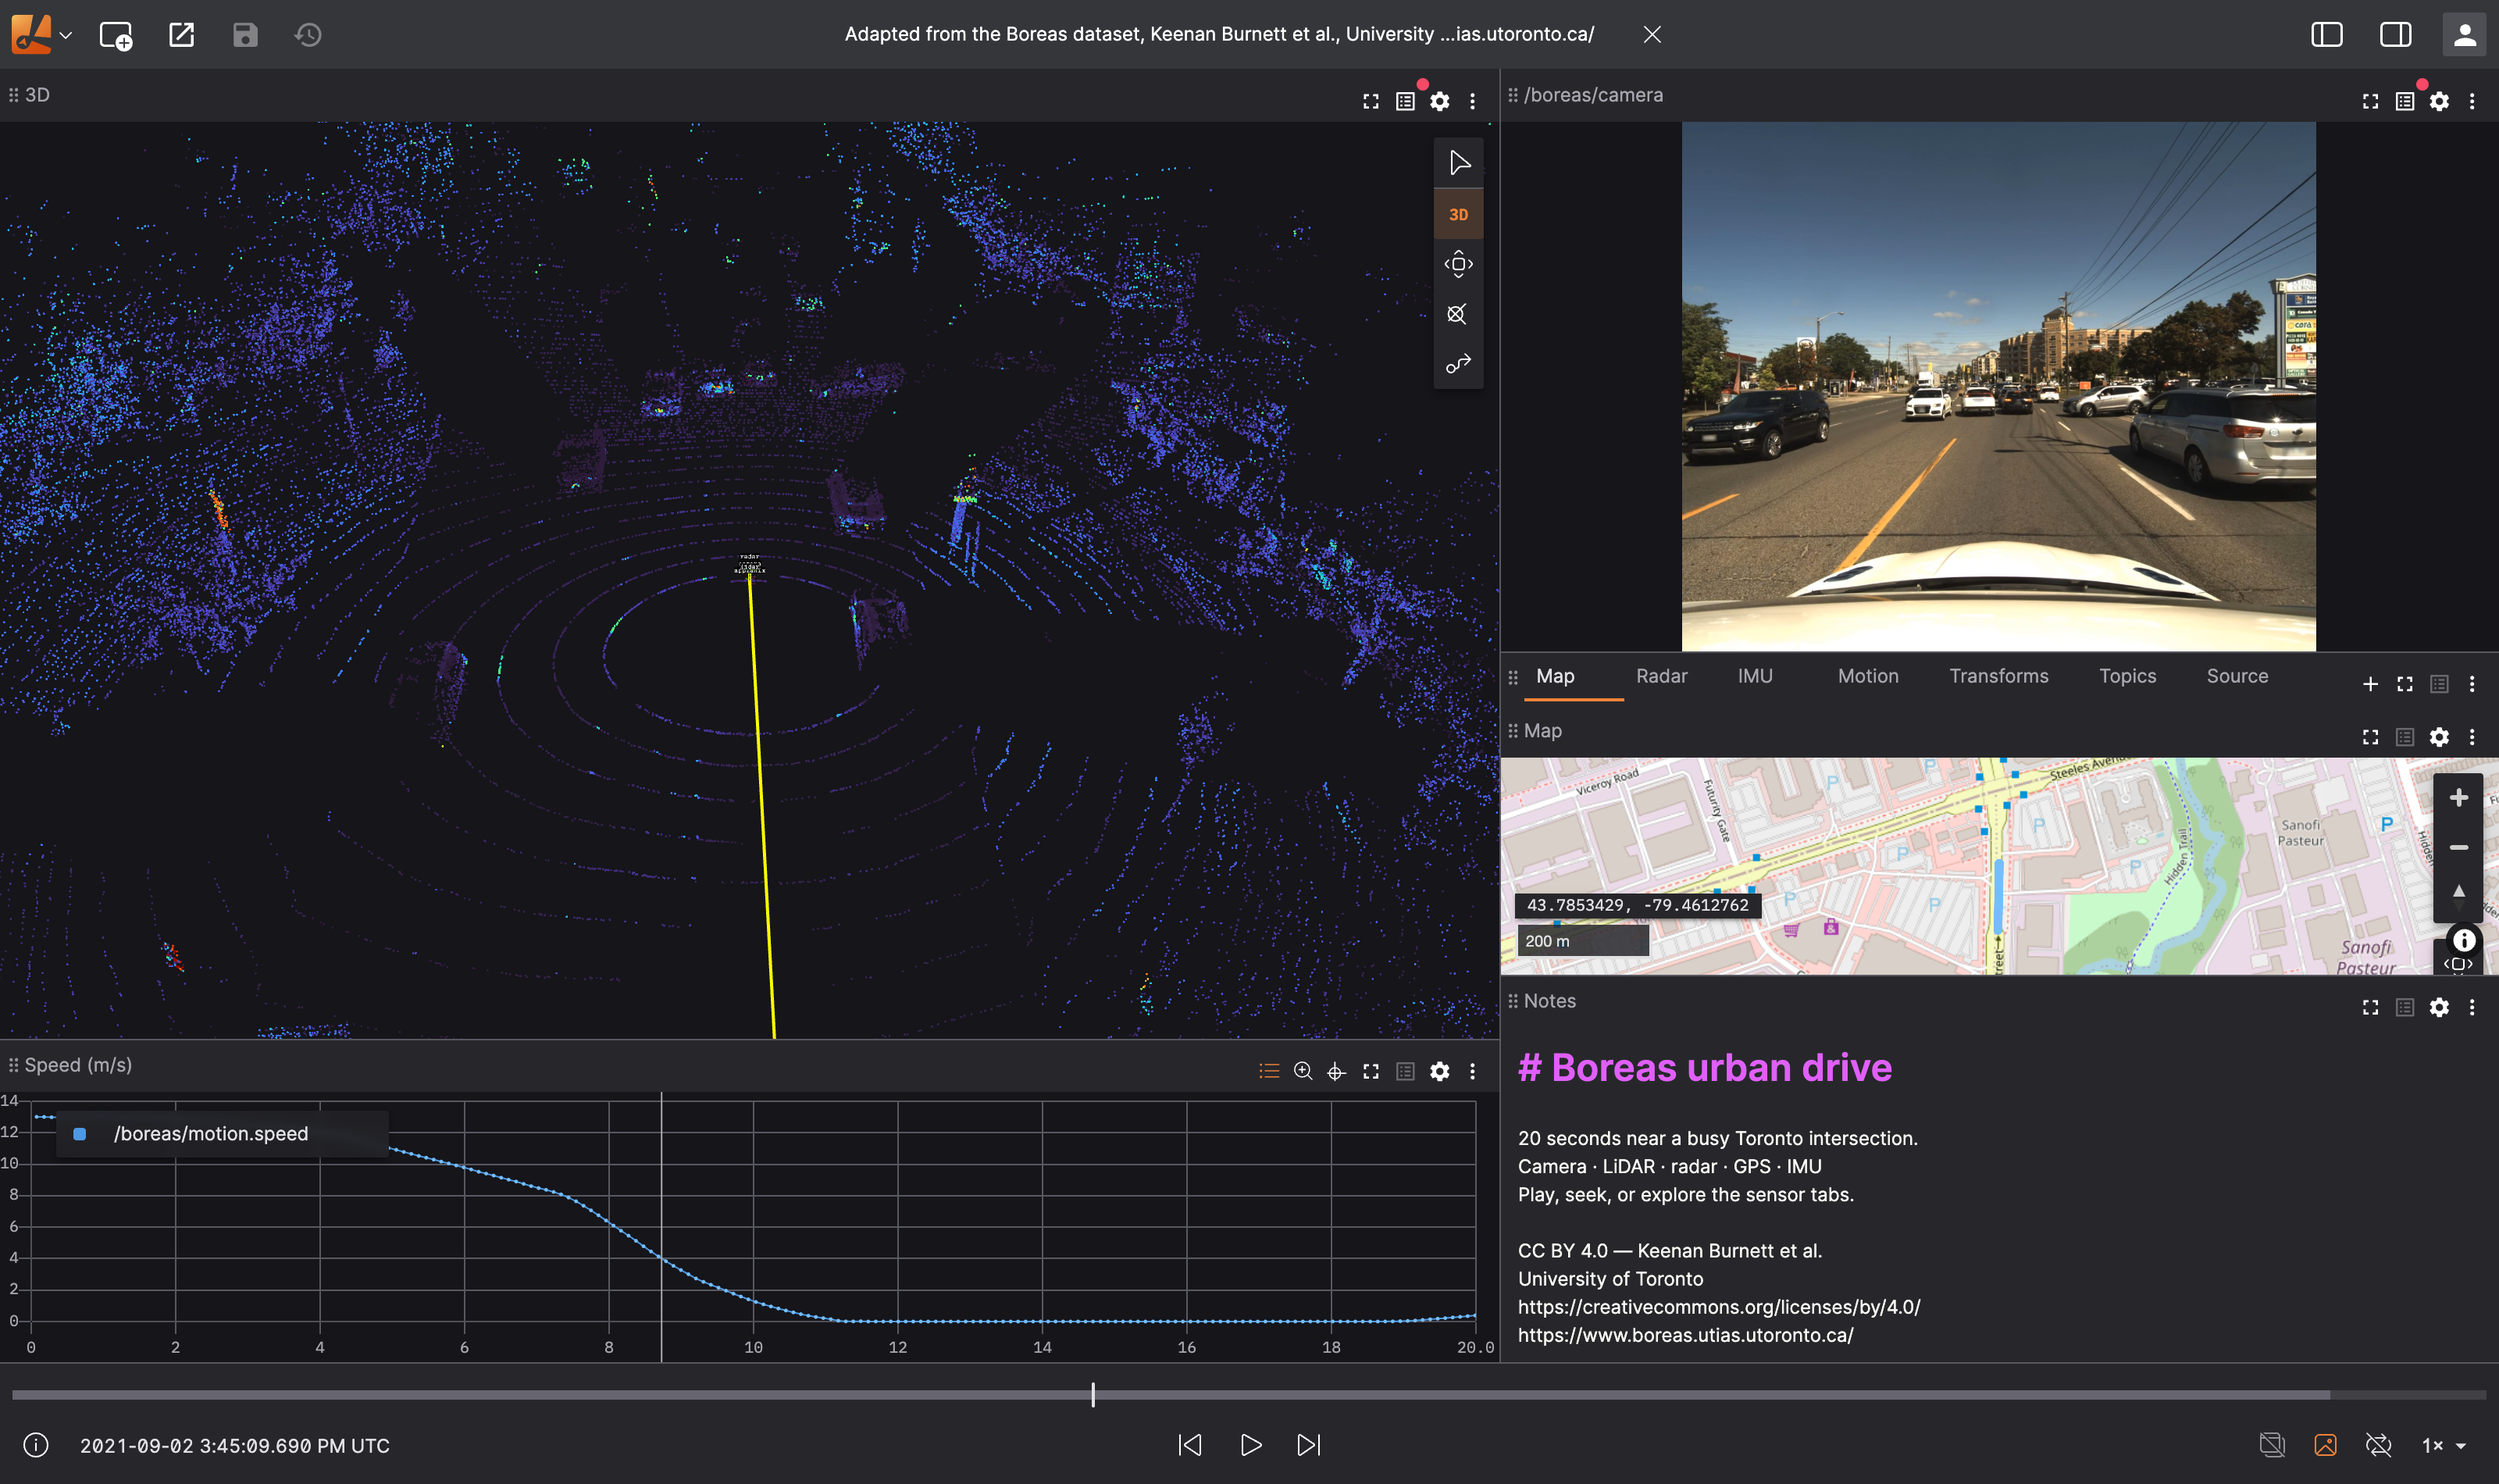
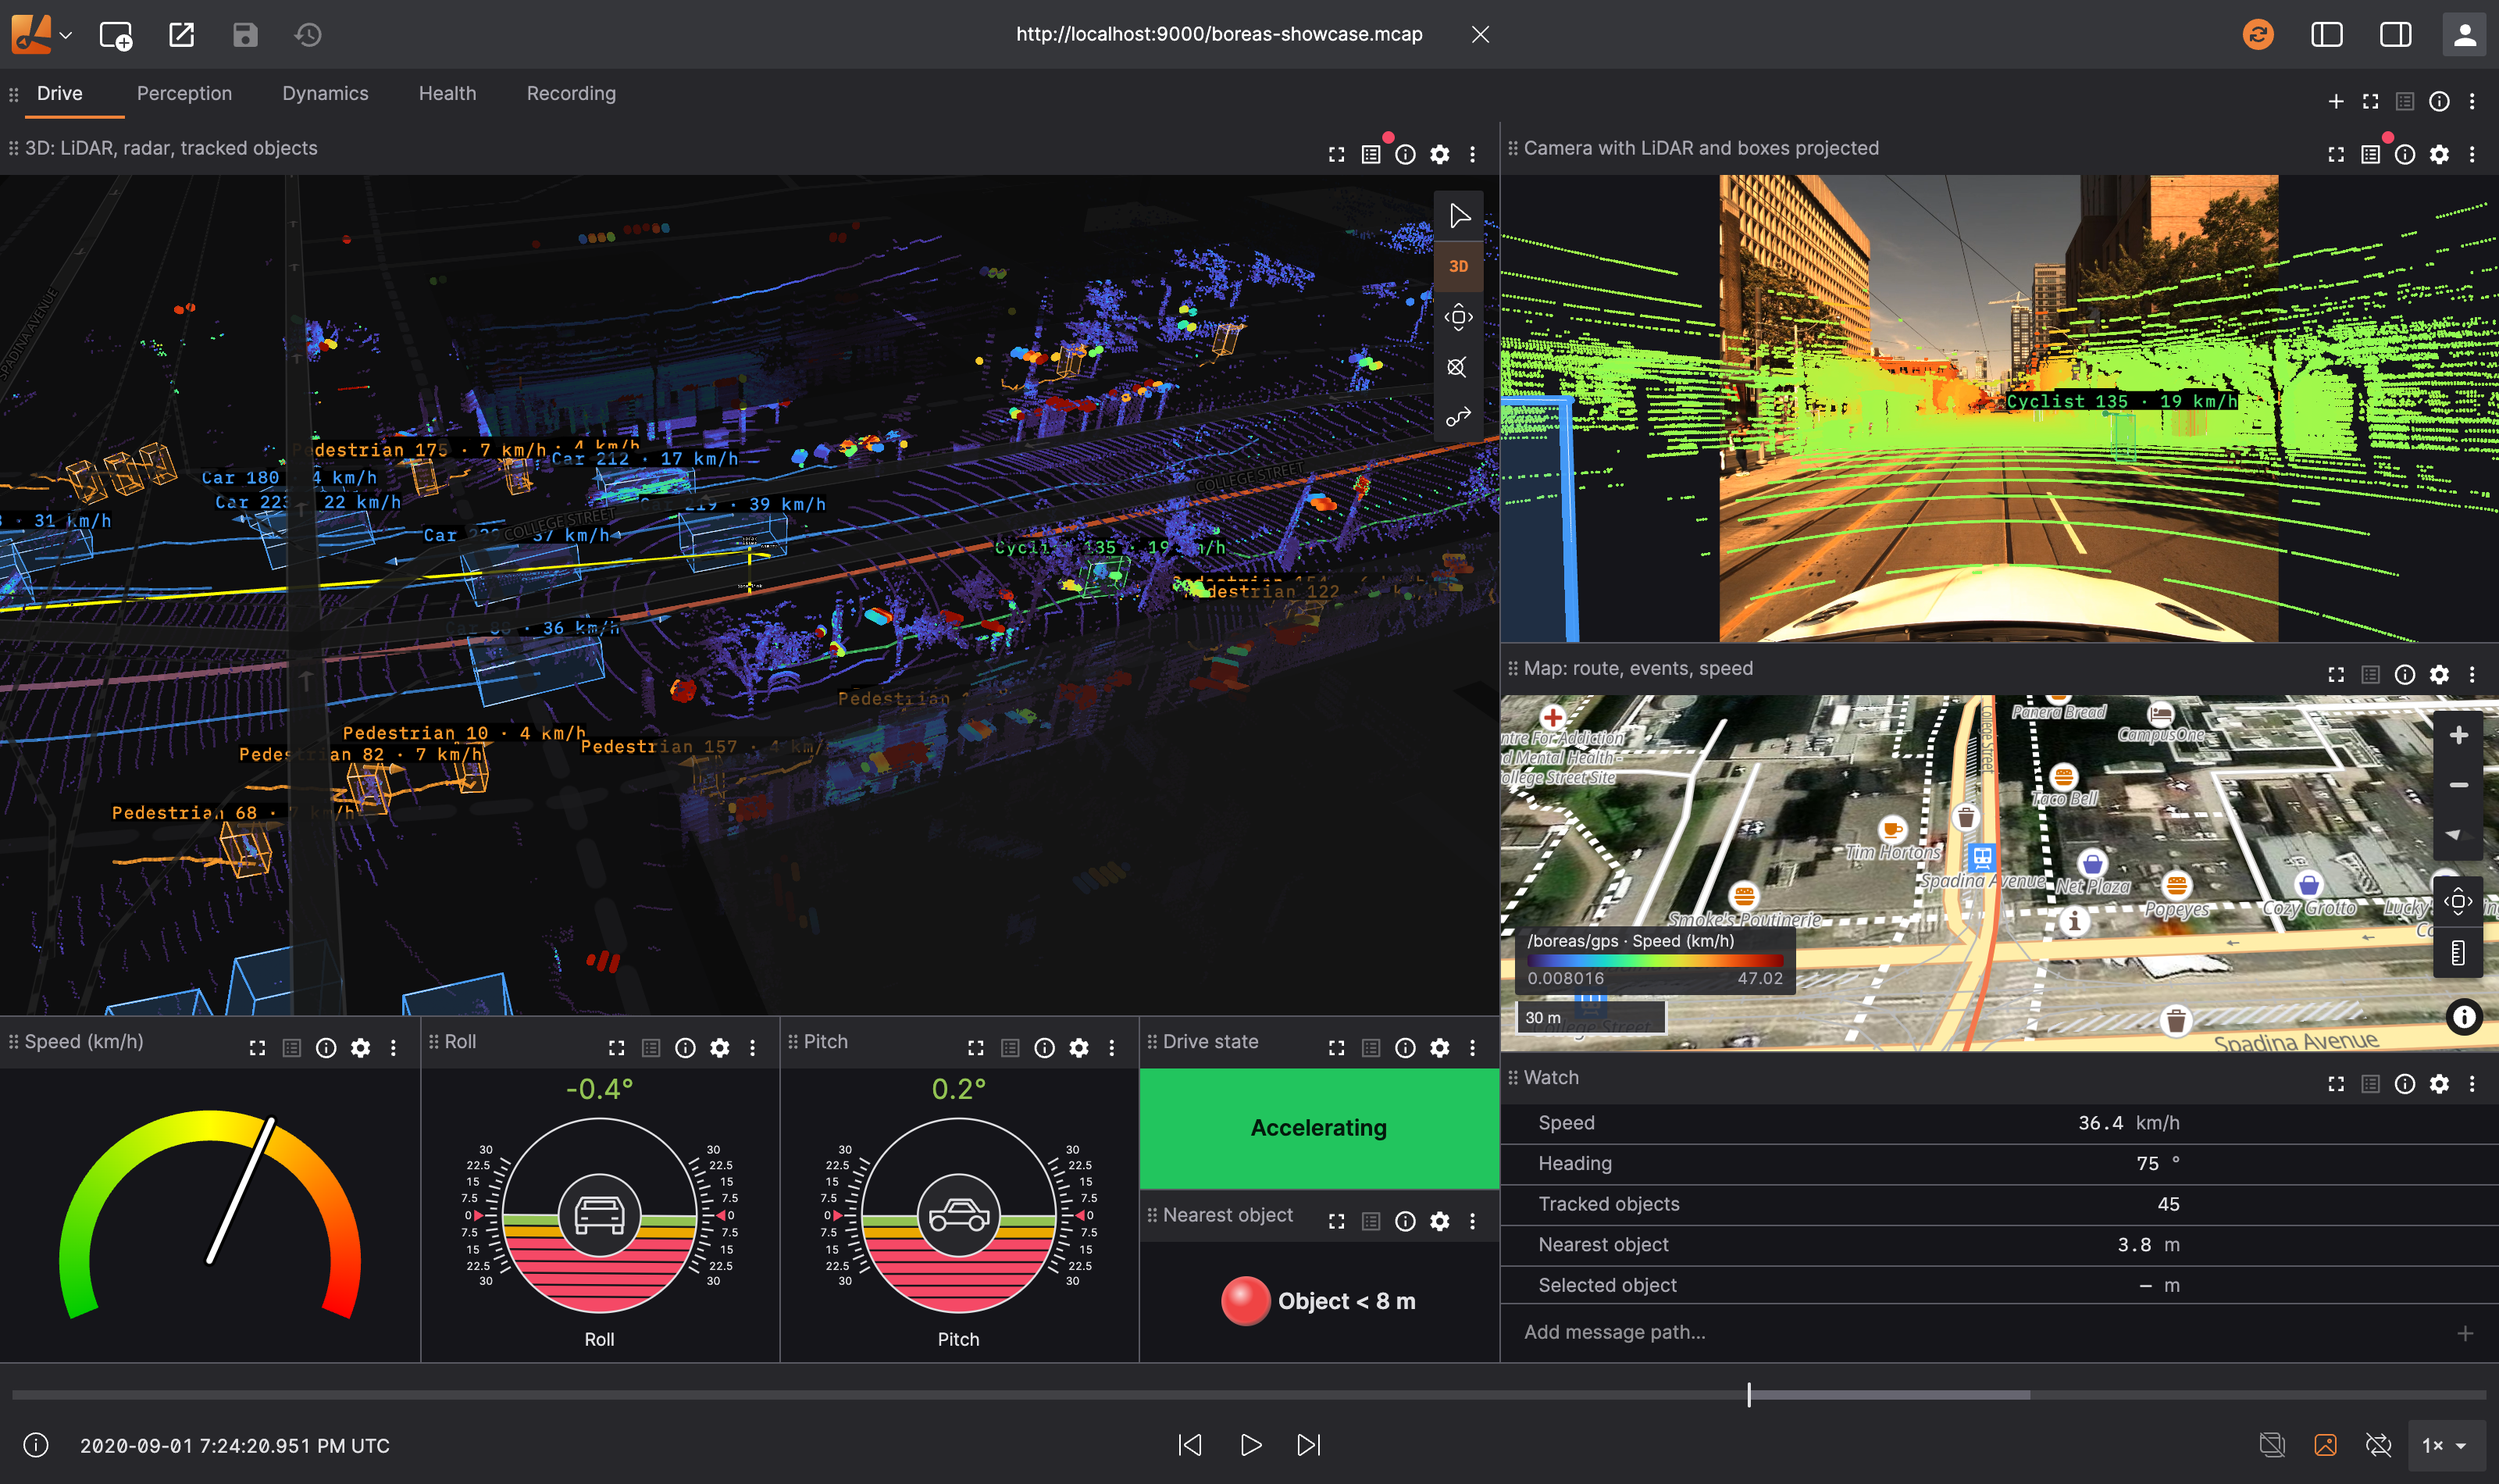
docs(readme): screenshot of the Boreas showcase layout

diff --git a/README.md b/README.md
@@ -66,4 +66,4 @@ Off unless the build sets `OTLP_ENDPOINT`; there is no runtime toggle. When enab
 
 This is a fork of **[Lichtblick](https://github.com/lichtblick-suite/lichtblick)** by BMW AG and the Lichtblick contributors, licensed under MPL 2.0. Most of this code comes from upstream Lichtblick; thank you to everyone who built and maintains it. Lichtblick itself began as a fork of [Foxglove Studio](https://github.com/foxglove/studio) by [Foxglove](https://foxglove.dev/).
 
-The sample recording is adapted from the [Boreas dataset](https://www.boreas.utias.utoronto.ca/) (CC BY 4.0, Keenan Burnett et al., University of Toronto).
+The sample recording and the screenshot's recording are adapted from the [Boreas dataset](https://www.boreas.utias.utoronto.ca/) (CC BY 4.0, Keenan Burnett et al., University of Toronto).
